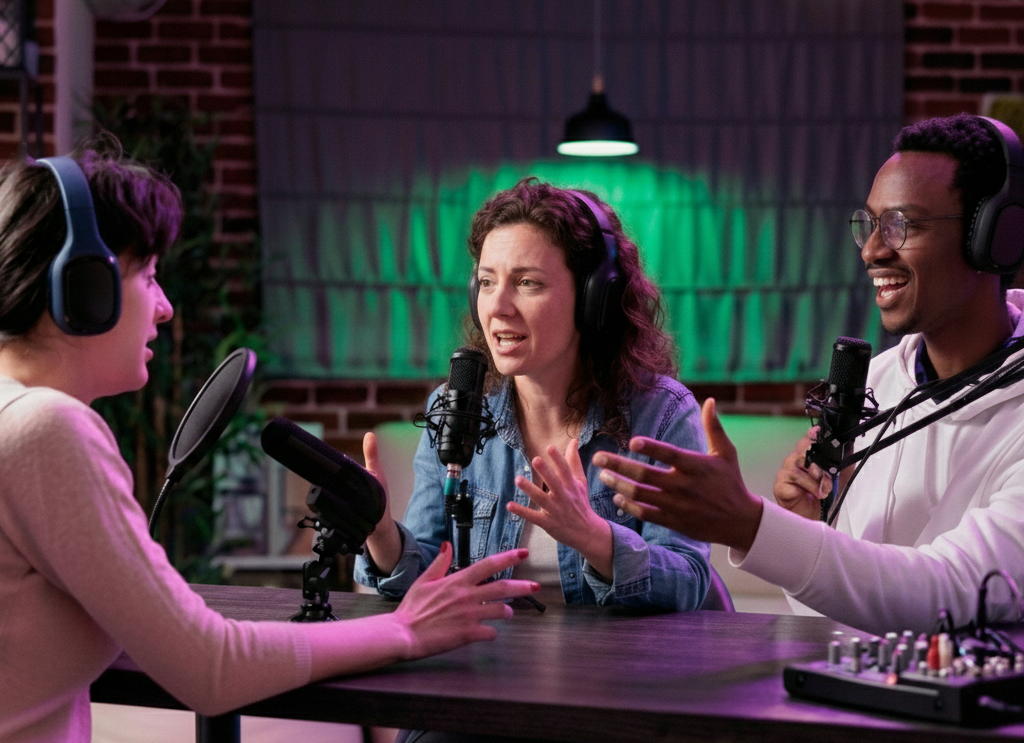
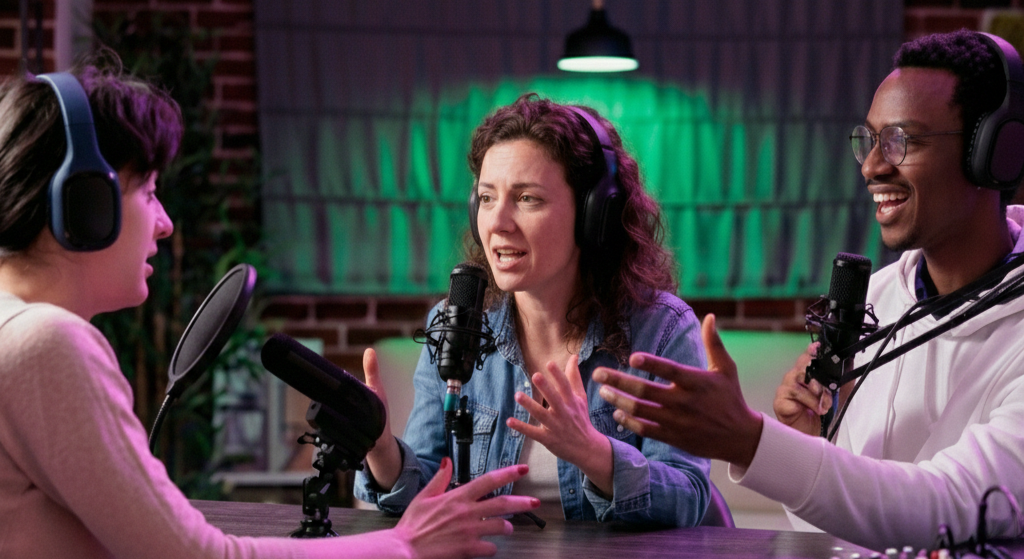
576px view complet

diff --git a/index.html b/index.html
@@ -20,7 +20,7 @@
             </div>
         </nav>
         <section>
-            <div class="relative w-full h-[615px] bg-[linear-gradient(rgba(53,17,101,0.4)),url(./assets/hero-bg.png)] bg-[length:576px_100%] bg-no-repeat pl-[24px] pr-[24px] flex flex-col justify-cneter items-center gap-[24px]">
+            <div class="relative w-full h-[615px] bg-[linear-gradient(rgba(53,17,101,0.4)),url(./assets/hero-bg.png)] bg-[length:100%_100%] bg-no-repeat pl-[24px] pr-[24px] flex flex-col justify-cneter items-center gap-[24px]">
                 <div class="pt-[110px]">
                     <div class="w-[250px] h-[250px] bg-[url(./assets/hero-circle.png)] bg-center bg-cover bg-no-repeat flex flex-col items-center justify-center"><img src="./assets/microphone.png" alt="" width="80"></div>
                     <p class="absolute pt-[8px] pb-[8px] pl-[16px] pr-[16px] bg-[#00FF88] rounded-full text-[#1A0B2E] font-semibold leading-[24px] top-[110px] right-[180px] shadow-[0_0_20px_rgba(0,255,136,0.5)]">NEW</p>
@@ -61,39 +61,81 @@
                 </div>
             </section>
         </article>
-        <section class="flex flex-col justify-start items-center gap-[16px] mt-[40px] pl-[24px] pr-[24px]">
-            <h2 class="text-4xl mb-[16px]">Why Choose TechWave</h2>
-            <div class="bg-[#230E3D] w-full p-[24px] flex flex-col gap-[14px] rounded-[24px]">
+        <section class="bg-[#230E3D] flex flex-col justify-center items-center gap-[16px] pt-[40px] pb-[40px] pl-[24px] pr-[24px]">
+            <h2 class="text-4xl font-semibold mb-[16px]">Why Choose TechWave</h2>
+            <div class="bg-[#230E3D] w-full p-[24px] flex flex-col gap-[14px] rounded-[24px] shadow-[0_0_20px_rgba(0,0,0,0.3)]">
                 <img src="./assets/headphone.png" alt="" width="60">
-                <h3 class="text-3xl font-semibold">Premium Audio Quality</h3>
+                <h3 class="text-2xl font-medium">Premium Audio Quality</h3>
                 <p class="opacity-[0.7]">Experience crystal-clear sound with professional-grade recording equipment and expert audio engineering. Every episode is mastered for optimal listening across all devices and platforms.</p>
             </div>
-            <div class="bg-[#230E3D] w-full p-[24px] flex flex-col gap-[14px] rounded-[24px]">
+            <div class="bg-[#230E3D] w-full p-[24px] flex flex-col gap-[14px] rounded-[24px] shadow-[0_0_20px_rgba(0,0,0,0.3)]">
                 <img src="./assets/device.png" alt="" width="60">
-                <h3 class="text-3xl font-semibold">Mobile Friendly</h3>
+                <h3 class="text-2xl font-medium">Mobile Friendly</h3>
                 <p class="opacity-[0.7]">Listen on the go with seamless mobile experience and offline downloads.</p>
             </div>
-            <div class="bg-[#230E3D] w-full p-[24px] flex flex-col gap-[14px] rounded-[24px]">
+            <div class="bg-[#230E3D] w-full p-[24px] flex flex-col gap-[14px] rounded-[24px] shadow-[0_0_20px_rgba(0,0,0,0.3)]">
                 <img src="./assets/location.png" alt="" width="60">
-                <h3 class="text-3xl font-semibold">Global Community</h3>
+                <h3 class="text-2xl font-medium">Global Community</h3>
                 <p class="opacity-[0.7]">Connect with tech enthusiasts from over 120 countries worldwide.</p>
             </div>
-            <div class="bg-[#230E3D] w-full p-[24px] flex flex-col gap-[14px] rounded-[24px]">
+            <div class="bg-[#230E3D] w-full p-[24px] flex flex-col gap-[14px] rounded-[24px] shadow-[0_0_20px_rgba(0,0,0,0.3)]">
                 <img src="./assets/zap-fast.png" alt="" width="60">
-                <h3 class="text-3xl font-semibold">Exclusive Interviews</h3>
+                <h3 class="text-2xl font-medium">Exclusive Interviews</h3>
                 <p class="opacity-[0.7]">Get unprecedented access to industry titans, startup founders, and tech visionaries. Our host secures exclusive conversations you won't find anywhere else, diving deep into their journeys, failures, and success strategies.</p>
             </div>
-            <div class="bg-[#230E3D] w-full p-[24px] flex flex-col gap-[14px] rounded-[24px]">
+            <div class="bg-[#230E3D] w-full p-[24px] flex flex-col gap-[14px] rounded-[24px] shadow-[0_0_20px_rgba(0,0,0,0.3)]">
                 <img src="./assets/resource.png" alt="" width="60">
-                <h3 class="text-3xl font-semibold">Rich Resources</h3>
+                <h3 class="text-2xl font-medium">Rich Resources</h3>
                 <p class="opacity-[0.7]">Access show notes, transcripts, and additional learning materials for every episode.</p>
             </div>
         </section>
-        <section>
-
+        <section class="flex flex-col justify-center items-center gap-[16px] mt-[40px] mb-[60px] pl-[24px] pr-[24px]">
+            <h2 class="text-4xl font-semibold mb-[16px]">Featured Episodes</h2>
+            <div class="bg-[#230E3D] w-full rounded-[24px] overflow-hidden">
+                <img src="./assets/tech-1.png" alt="">
+                <div class="p-[24px]">
+                    <h3 class="text-2xl font-medium mb-[14px]">The Future of AI in Everyday Life</h3>
+                    <p class="opacity-[0.7]">Exploring how artificial intelligence is transforming our daily routines and what to expect in the next...</p>
+                </div>
+            </div>
+            <div class="bg-[#230E3D] w-full rounded-[24px] overflow-hidden">
+                <img src="./assets/tech-2.png" alt="">
+                <div class="p-[24px]">
+                    <h3 class="text-2xl font-medium mb-[14px]">Building Better Habits for Remote Work</h3>
+                    <p class="opacity-[0.7]">Practical strategies for staying productive and maintaining work-life balance in a...</p>
+                </div>
+            </div>
+            <div class="bg-[#230E3D] w-full rounded-[24px] overflow-hidden">
+                <img src="./assets/tech-3.png" alt="">
+                <div class="p-[24px]">
+                    <h3 class="text-2xl font-medium mb-[14px]">Career Growth in Tech: A Roadmap</h3>
+                    <p class="opacity-[0.7]">Expert advice on navigating your tech career from junior developer to senior leadership...</p>
+                </div>
+            </div>
         </section>
-        <section></section>
+        <section class="flex justify-center items-center mb-[40px] pl-[24px] pr-[24px]">
+            <h2 class="text-4xl font-semibold mb-[16px]"></h2>
+            <div class="bg-[#230E3D] w-full flex flex-col justify-center items-center gap-[16px] rounded-[24px] p-[24px] text-center">
+                <div class="w-[150px] h-[150px] rounded-full"><img src="./assets/host.png" alt=""></div>
+                <h3 class="text-2xl font-medium mb-[14px]">Alex Kumar</h3>
+                <p class="opacity-[0.7]">Tech entrepreneur, productivity expert, and lifelong learner. Alex has been in the tech industry for over 10 years, working with startups and Fortune 500 companies. Through TechWave, Alex shares insights from industry leaders and practical advice for anyone looking to grow in tech.</p>
+                <div class="flex justify-center gap-[8px]">
+                    <div class="w-[40px] h-[40px] rounded-full border border-[rgba(255,255,255,0.4)] flex justify-center items-center"><img src="./assets/linkedin.png" alt="" width="20"></div>
+                    <div class="w-[40px] h-[40px] rounded-full border border-[rgba(255,255,255,0.4)] flex justify-center items-center"><img src="./assets/x.png" alt="" width="20"></div>
+                    <div class="w-[40px] h-[40px] rounded-full border border-[rgba(255,255,255,0.4)] flex justify-center items-center"><img src="./assets/instagram.png" alt="" width="20"></div>
+                    <div class="w-[40px] h-[40px] rounded-full border border-[rgba(255,255,255,0.4)] flex justify-center items-center"><img src="./assets/youtube.png" alt="" width="20"></div>
+            </div>
+        </section>
     </main>
-    <footer></footer>
+    <footer class="w-full bg-[url(./assets/footer-bg.png)] bg-[length:100%_100%] bg-no-repeat pt-[40px] pb-[40px] pl-[24px] pr-[24px] flex flex-col items-center gap-[24px]">
+        <h1 class="text-4xl font-bold">Tech<span class="bg-[linear-gradient(15deg,rgb(247,233,63)_0%,rgb(213,6,205)_50%,rgb(145,0,248)_100%)] text-transparent bg-clip-text">Wave</span></h1>
+        <div class="flex flex-wrap justify-center items-center gap-[16px] pl-[110px] pr-[110px]">
+            <div class="flex justify-center items-center gap-[8px]"><img src="./assets/spotify.png" alt=""><span class="opacity-[0.7]">Spotify</span></div>
+            <div class="flex justify-center items-center gap-[8px]"><img src="./assets/apple-podcast.png" alt=""><span class="opacity-[0.7]">Apple Podcasts</span></div>
+            <div class="flex justify-center items-center gap-[8px]"><img src="./assets/youtube-podcast.png" alt=""><span class="opacity-[0.7]">YouTube</span></div>
+            <div class="flex justify-center items-center gap-[8px]"><img src="./assets/twitter.png" alt=""><span class="opacity-[0.7]">Twitter</span></div>
+        </div>
+        <p class="opacity-[0.7]">© 2026 TechWave Podcast. All rights reserved.</p>
+    </footer>
 </body>
 </html>
